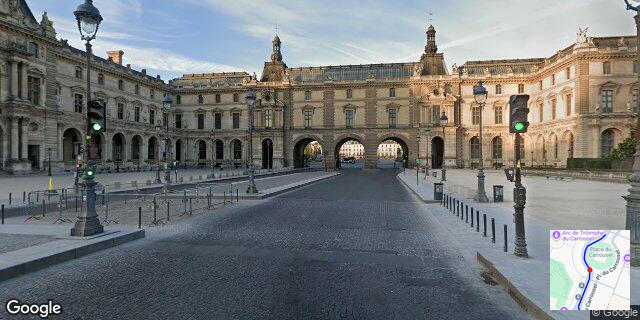
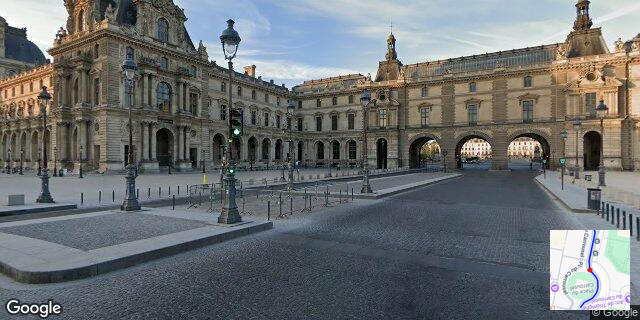
feat(video): rotate the inset map to track-up (direction of travel)
Post-review correction: a fixed north-up inset next to a moving
position marker is unintuitive, unlike a car GPS display where the
map rotates so the direction of travel always points up.

The base map crop is now rotated per frame by the current heading
(already computed for the Street View camera and turn frames, now
also threaded through to compositing) before the final --map-size
window is cropped from its center — using a source crop sized to the
target's diagonal so rotation can't expose empty corners. Adds
imageproc for arbitrary-angle rotation (image alone only supports
90-degree increments).

Verified the rotation direction empirically: two real frames with
true headings ~154 degrees apart both show the direction of travel
pointing up in the inset, the signature of correct track-up behavior.
docs/media/demo-inset-map-frame.jpg regenerated accordingly.

diff --git a/src/compositing.rs b/src/compositing.rs
@@ -33,6 +33,12 @@ pub const INSET_MARGIN_PERCENT: f64 = 0.03;
 const MARKER_RADIUS_PX: f64 = 6.0;
 const MARKER_COLOR: Rgba<u8> = Rgba([230, 30, 30, 255]);
 
+/// Fill color for the corners exposed when rotating the pre-rotation crop
+/// (see `safe_rotation_source_size`) — only visible if that crop got
+/// clamped smaller than the ideal safe size near the fetched map's edges.
+/// A light neutral gray, close to Google's own basemap background.
+const ROTATION_FILL_COLOR: Rgba<u8> = Rgba([225, 225, 220, 255]);
+
 /// Computes the inset's on-frame `(x, y, width, height)` rectangle for a
 /// given frame size, corner, footprint, and margin.
 pub fn corner_rect(
@@ -78,6 +84,17 @@ fn crop_window(
         .round()
         .clamp(0.0, f64::from(max_y)) as u32;
     (x, y, crop_w, crop_h)
+}
+
+/// The smallest square side that, once rotated by any angle about its own
+/// center, still fully covers a `crop_size` rectangle cropped from that same
+/// center — a rotated shape's farthest-from-center point (here, `crop_size`'s
+/// corner) stays the same distance from center regardless of rotation angle,
+/// so a source square with at least that diagonal as its side guarantees no
+/// exposed (fill-color) corners in the final crop after rotation.
+fn safe_rotation_source_size(crop_size: (u32, u32)) -> u32 {
+    let diagonal = (f64::from(crop_size.0).powi(2) + f64::from(crop_size.1).powi(2)).sqrt();
+    diagonal.ceil() as u32
 }
 
 /// Hand-rolled filled-circle draw — a single primitive doesn't need a
@@ -133,10 +150,11 @@ pub struct CompositeParams {
 fn composite_frame(
     frame_path: &Path,
     base_map: &RgbaImage,
-    point: (f64, f64),
+    point: (f64, f64, f64),
     params: &CompositeParams,
     dest_path: &Path,
 ) -> Result<(), CompositingError> {
+    let (lat, lon, heading) = point;
     let frame = image::open(frame_path)
         .map_err(|source| CompositingError::Decode {
             path: frame_path.display().to_string(),
@@ -146,17 +164,42 @@ fn composite_frame(
 
     let mut map = base_map.clone();
     let marker_px = crate::geo::lat_lon_to_pixel(
-        point.0,
-        point.1,
+        lat,
+        lon,
         params.map_center,
         params.map_zoom,
         params.map_size,
     );
     draw_marker(&mut map, marker_px, MARKER_RADIUS_PX, MARKER_COLOR);
 
+    // Crop a source window big enough that rotating it about its center
+    // can't expose fill-colored corners in the final crop_size crop below,
+    // then rotate it so the current direction of travel points to the top
+    // of the inset ("track-up", like a car GPS display) instead of the map
+    // staying fixed north-up.
+    let source_side = safe_rotation_source_size(params.crop_size)
+        .min(map.width())
+        .min(map.height());
+    let (src_x, src_y, src_w, src_h) =
+        crop_window(map.dimensions(), marker_px, (source_side, source_side));
+    let source = image::imageops::crop_imm(&map, src_x, src_y, src_w, src_h).to_image();
+    let rotated = imageproc::geometric_transformations::rotate_about_center(
+        &source,
+        (heading as f32).to_radians(),
+        imageproc::geometric_transformations::Interpolation::Bilinear,
+        ROTATION_FILL_COLOR,
+    );
+
+    // Rotating about the source crop's center keeps the marker (which was
+    // centered in that crop, per `crop_window`) at the rotated image's
+    // center too, so the final crop just needs to be centered on it.
+    let rotated_center = (
+        f64::from(rotated.width()) / 2.0,
+        f64::from(rotated.height()) / 2.0,
+    );
     let (crop_x, crop_y, crop_w, crop_h) =
-        crop_window(map.dimensions(), marker_px, params.crop_size);
-    let cropped = image::imageops::crop_imm(&map, crop_x, crop_y, crop_w, crop_h).to_image();
+        crop_window(rotated.dimensions(), rotated_center, params.crop_size);
+    let cropped = image::imageops::crop_imm(&rotated, crop_x, crop_y, crop_w, crop_h).to_image();
 
     let (x, y, w, h) = corner_rect(
         frame.dimensions(),
@@ -185,7 +228,7 @@ fn composite_frame(
 /// the existing `lineup/` convention, since compositing is local-only (no
 /// API spend to save by skipping it).
 pub async fn composite_all(
-    frames: Vec<(usize, PathBuf, (f64, f64))>,
+    frames: Vec<(usize, PathBuf, (f64, f64, f64))>,
     base_map_path: PathBuf,
     dest_dir: PathBuf,
     params: CompositeParams,
@@ -294,6 +337,19 @@ mod tests {
         let (x, y, w, h) = crop_window((200, 200), (100.0, 100.0), (640, 640));
         assert_eq!((x, y), (0, 0));
         assert_eq!((w, h), (200, 200));
+    }
+
+    #[test]
+    fn safe_rotation_source_size_is_the_crop_diagonal() {
+        // 200x200's diagonal is 200*sqrt(2) ~= 282.84, rounded up.
+        assert_eq!(safe_rotation_source_size((200, 200)), 283);
+    }
+
+    #[test]
+    fn safe_rotation_source_size_handles_non_square_crops() {
+        let side = safe_rotation_source_size((100, 200));
+        let expected = (100f64.powi(2) + 200f64.powi(2)).sqrt().ceil() as u32;
+        assert_eq!(side, expected);
     }
 
     #[test]

diff --git a/src/main.rs b/src/main.rs
@@ -765,7 +765,10 @@ async fn run() -> Result<(), String> {
         processed[i].downloaded = true;
         image_paths.push(path);
     }
-    let all_points: Vec<(f64, f64)> = processed.iter().map(|r| (r.lat, r.lon)).collect();
+    let all_points: Vec<(f64, f64, f64)> = processed
+        .iter()
+        .map(|r| (r.lat, r.lon, r.heading))
+        .collect();
     itinerary::save_to(
         &paths.itinerary_path,
         &itinerary::ItineraryFile {
@@ -787,7 +790,7 @@ async fn run() -> Result<(), String> {
             kept.iter().map(|&i| image_paths[i].clone()).collect();
         let renumbered = lineup::renumber_sequentially(&kept_paths, &lineup_dir, "frame")
             .map_err(|e| e.to_string())?;
-        let kept_points: Vec<(f64, f64)> = kept.iter().map(|&i| all_points[i]).collect();
+        let kept_points: Vec<(f64, f64, f64)> = kept.iter().map(|&i| all_points[i]).collect();
         Ok((renumbered, kept_points))
     })
     .await
@@ -804,7 +807,7 @@ async fn run() -> Result<(), String> {
             map_size: map_state.size,
             crop_size: map_state.crop_size,
         };
-        let frames: Vec<(usize, std::path::PathBuf, (f64, f64))> = frame_paths
+        let frames: Vec<(usize, std::path::PathBuf, (f64, f64, f64))> = frame_paths
             .into_iter()
             .zip(frame_points)
             .enumerate()

diff --git a/docs/GETTING_STARTED.md b/docs/GETTING_STARTED.md
@@ -100,7 +100,7 @@ Under `--interactive`, you're prompted for each (y/N) alongside the other tuning
 
 ### Inset route map: `--hide-map`/`--map-corner`/`--map-size`
 
-Every run composites a small inset map into a frame corner, centered on your current position and panning to stay centered as the video progresses. It's on by default:
+Every run composites a small inset map into a frame corner, centered on your current position and rotated so your direction of travel always points to the top ("track-up", like a car GPS display, not fixed north-up). It's on by default:
 
 ```sh
 fnox exec -- cargo run --release -- --from "Marseille Provence Airport" --to "Simiane-la-Rotonde" --map-corner top-left
@@ -110,9 +110,9 @@ fnox exec -- cargo run --release -- --from "Marseille Provence Airport" --to "Si
 - `--map-corner` picks which corner it sits in: `top-left`, `top-right`, `bottom-left`, or `bottom-right` (default).
 - `--map-size` (default `200x200`) sets the size of the local-area window panned around your position, not the on-frame footprint (a fixed percentage of the frame's shorter dimension, so it stays proportionally consistent across different `--picsize` aspect ratios) and not the raw Maps Static request size (see below).
 
-Only one Maps Static API call happens per run, regardless of frame count: the CLI always fetches one larger base map (640x640, the API's free-tier maximum) covering the whole route, cached at `<output-dir>/map.png`. Per frame, it draws the marker on that base image at its true position, then crops a `--map-size` window centered on the marker and pastes that into the corner — so the inset stays centered on you, panning across the cached image, with no extra API calls. If the project behind `DIRECTIONS_API_KEY` doesn't have the Maps Static API enabled, the run doesn't fail — it prints a one-time message and finishes the video without the inset instead.
+Only one Maps Static API call happens per run, regardless of frame count: the CLI always fetches one larger base map (640x640, the API's free-tier maximum) covering the whole route, cached at `<output-dir>/map.png`. Per frame, it draws the marker on that base image at its true position, crops a window around the marker large enough to rotate without exposing empty corners, rotates that so the current heading points up, then crops the final `--map-size` window from its center and pastes that into the corner — so the inset stays centered on you and oriented to your direction of travel, panning/rotating across the one cached image, with no extra API calls. If the project behind `DIRECTIONS_API_KEY` doesn't have the Maps Static API enabled, the run doesn't fail — it prints a one-time message and finishes the video without the inset instead.
 
-Here's a frame from the same demo route as above, with the inset showing a marker centered in a zoomed-in local view around the current position:
+Here's a frame from the same demo route as above, with the inset showing a marker centered in a zoomed-in, track-up local view around the current position:
 
 ![A frame from an svmm output video, with a small inset map in the bottom-right corner showing the route and a position marker](media/demo-inset-map-frame.jpg)
 
